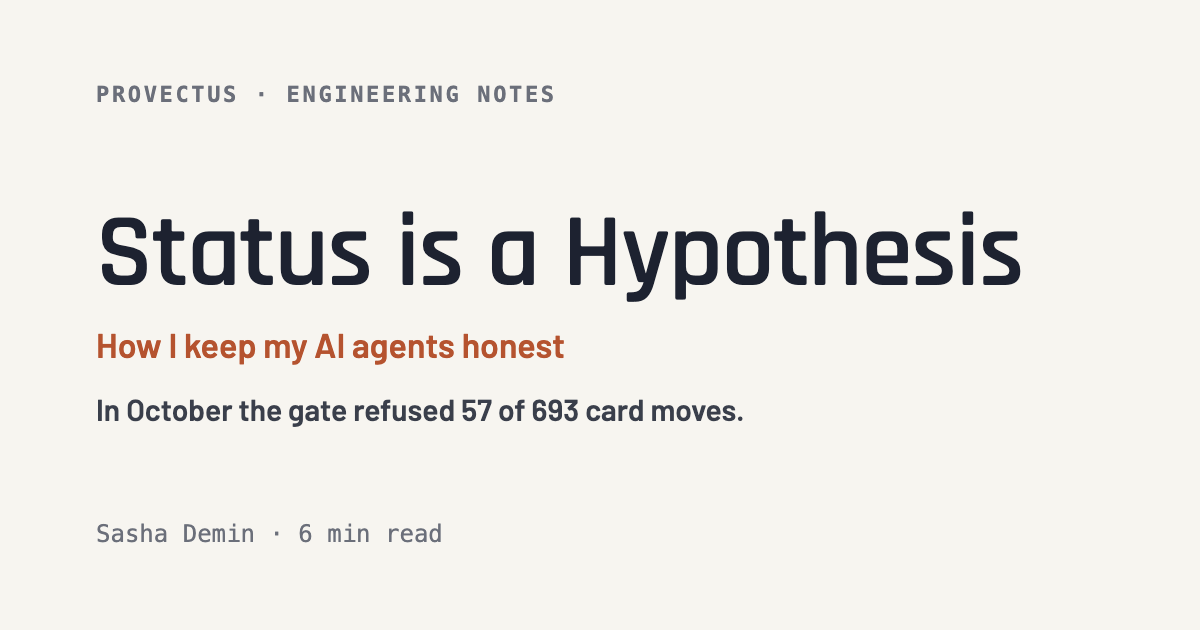
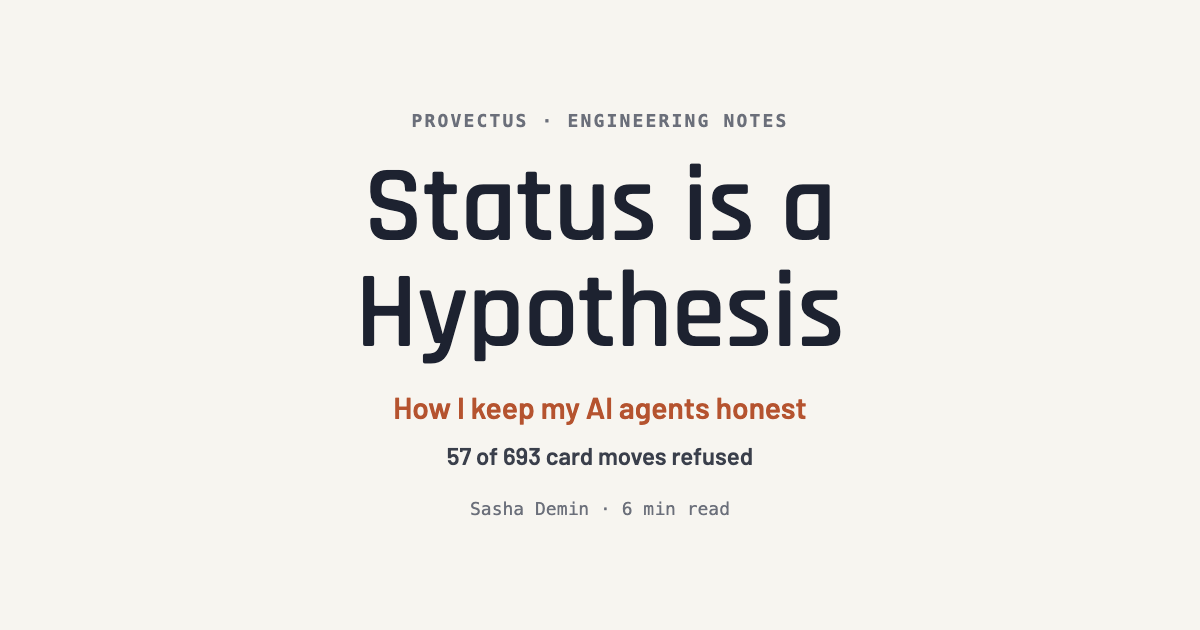
fix(gates-pubsub): centre the og card so Slack's square crop keeps the title (#4)

diff --git a/gates-pubsub/index.html b/gates-pubsub/index.html
@@ -9,14 +9,14 @@
 <meta property="og:type" content="article">
 <meta property="og:url" content="https://sashademin-pv.github.io/provectus-notes-drafts/gates-pubsub/">
 <meta property="og:site_name" content="Provectus · Engineering notes">
-<meta property="og:image" content="https://sashademin-pv.github.io/provectus-notes-drafts/gates-pubsub/og.png?v=2">
+<meta property="og:image" content="https://sashademin-pv.github.io/provectus-notes-drafts/gates-pubsub/og.png?v=3">
 <meta property="og:image:width" content="1200">
 <meta property="og:image:height" content="630">
 <meta property="og:image:alt" content="Status is a Hypothesis: How I keep my AI agents honest - Provectus Engineering notes, by Sasha Demin">
 <meta name="twitter:card" content="summary_large_image">
 <meta name="twitter:title" content="Status is a Hypothesis: How I keep my AI agents honest">
 <meta name="twitter:description" content="One October morning my board said one thing and the work said another. Now a card moves only on a command that actually ran - in October that refused 57 of 693 moves.">
-<meta name="twitter:image" content="https://sashademin-pv.github.io/provectus-notes-drafts/gates-pubsub/og.png?v=2">
+<meta name="twitter:image" content="https://sashademin-pv.github.io/provectus-notes-drafts/gates-pubsub/og.png?v=3">
 <title>Status is a Hypothesis: How I keep my AI agents honest | Provectus</title>
 <link rel="preconnect" href="https://fonts.googleapis.com">
 <link href="https://fonts.googleapis.com/css2?family=DM+Serif+Display&family=Inter:wght@400;500;600&family=JetBrains+Mono:wght@400;700&display=swap" rel="stylesheet">
